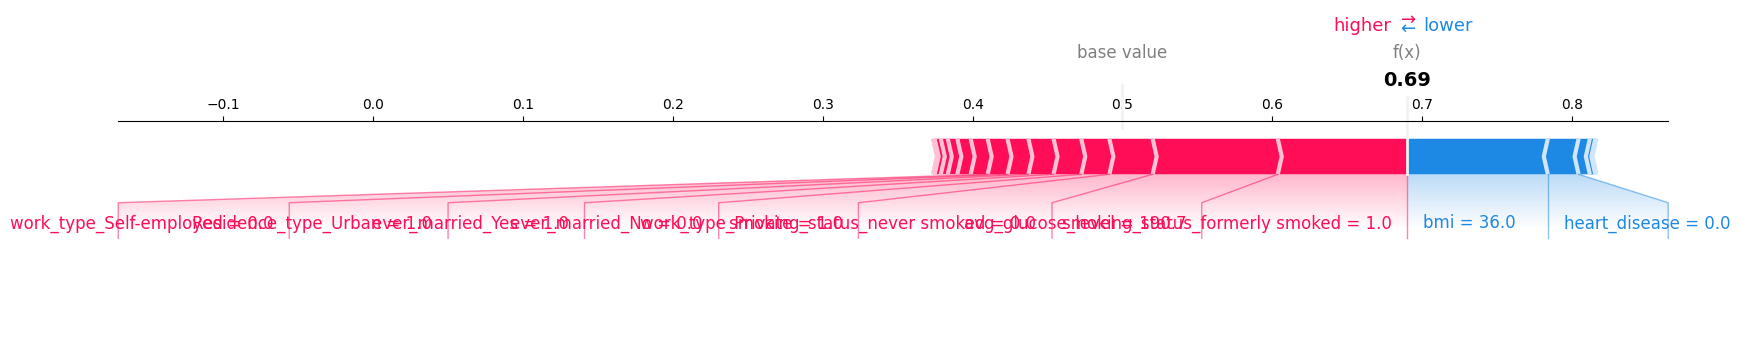
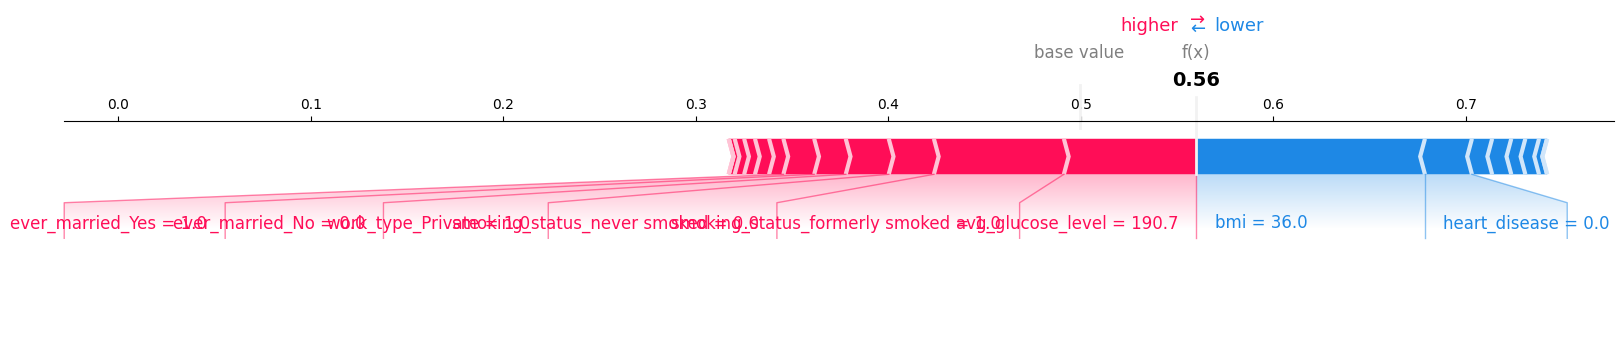
Complete task 4

diff --git a/03_shap.py b/03_shap.py
@@ -79,8 +79,18 @@ shap.force_plot(base_value,
                 X_explain.iloc[patient],
                 matplotlib=True,
                 show=False)
-plt.savefig("force_plot.png", bbox_inches='tight')
+plt.savefig("force_plot.png", bbox_inches="tight")
 
 # %% >> Visualize global features
+# TASK 4: Visualize global Explainer using Summary plot
 # Feature summary
-shap.summary_plot(shap_values, X_test)
+shap.summary_plot(shap_values, X_explain, show=False)
+plt.savefig("summary_plot.png", bbox_inches="tight")
+plt.show()
+
+# Bar version (mean |SHAP|) for slides
+shap.summary_plot(shap_values, X_explain, plot_type="bar", show=False)
+plt.savefig("summary_bar_plot.png", bbox_inches="tight")
+
+
+# %%
